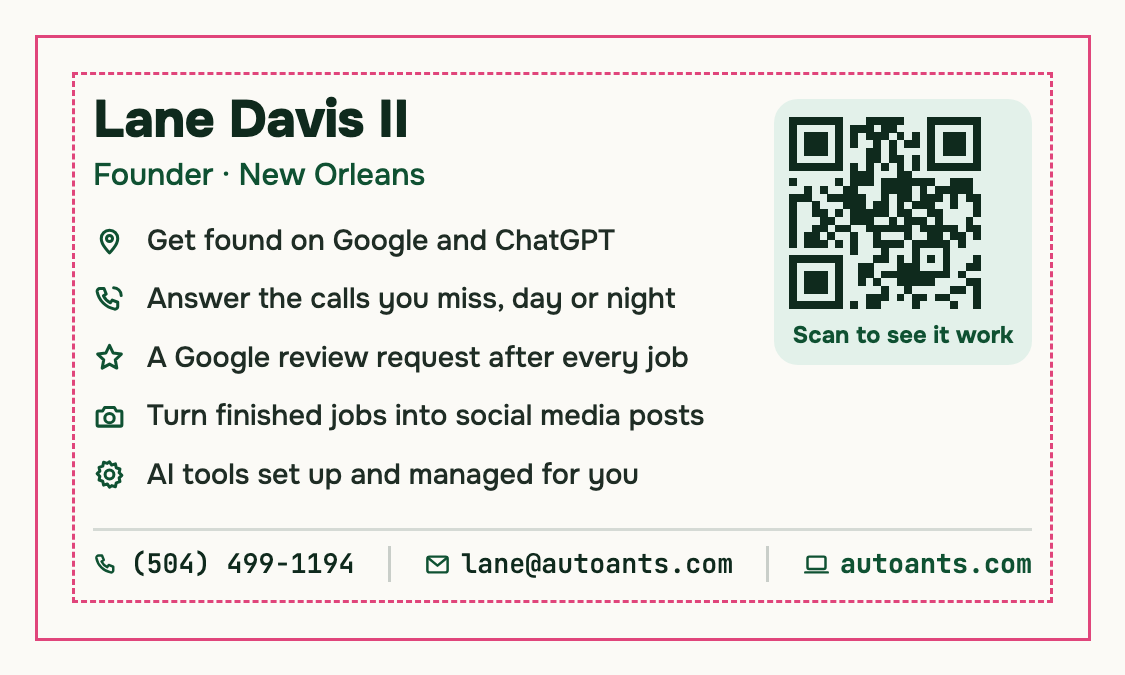
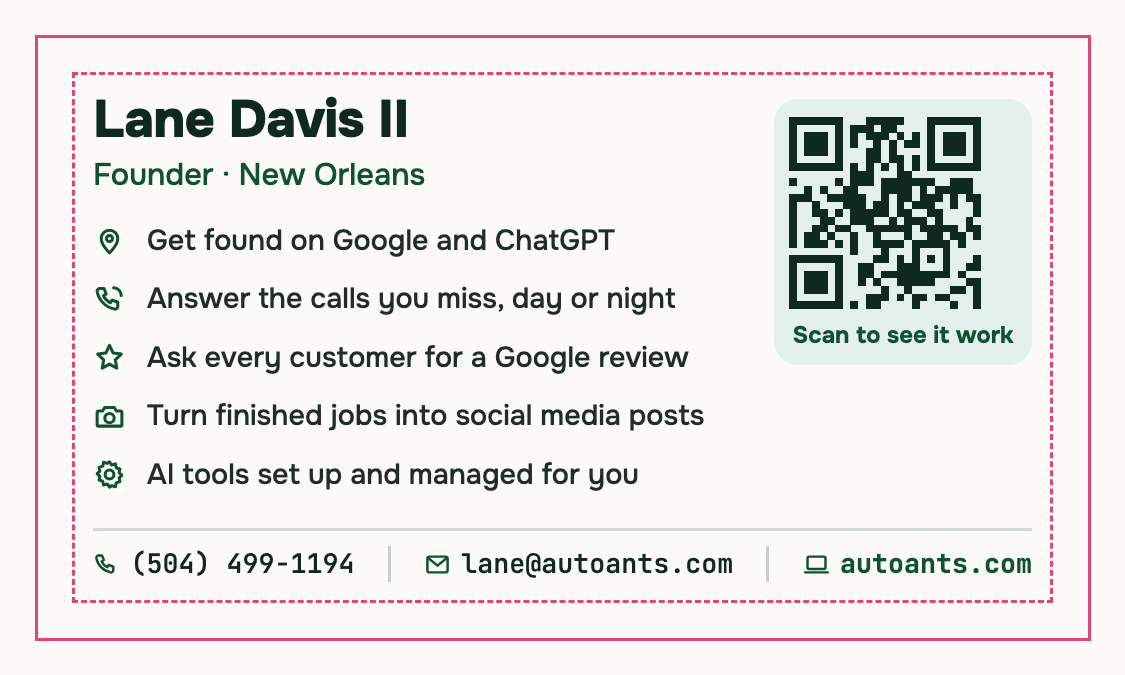
brand(card): 'Ask every customer for a Google review'

Changed region(s): [[0.1556, 0.4978, 0.6222, 0.56]]

diff --git a/brand/print/business-card/make_card.py b/brand/print/business-card/make_card.py
@@ -26,7 +26,7 @@ WORD = open(os.path.join(BRAND, "autoants-logo.svg")).read().strip()
 WORD_REV = open(os.path.join(BRAND, "autoants-logo-reverse.svg")).read().strip()
 WHITE = "#ffffff"
 LINES = ("Get found on Google and ChatGPT", "Answer the calls you miss, day or night",
-         "A Google review request after every job", "Turn finished jobs into social media posts",
+         "Ask every customer for a Google review", "Turn finished jobs into social media posts",
          "AI tools set up and managed for you")
 # Simple line icons (24-unit viewBox, stroke = currentColor), one per LINES entry, then phone/mail/web.
 _I = '<svg viewBox="0 0 24 24" style="width:{w}in;height:{w}in;display:block;flex:none" fill="none" stroke="currentColor" stroke-width="2.2" stroke-linecap="round" stroke-linejoin="round">{p}</svg>'
